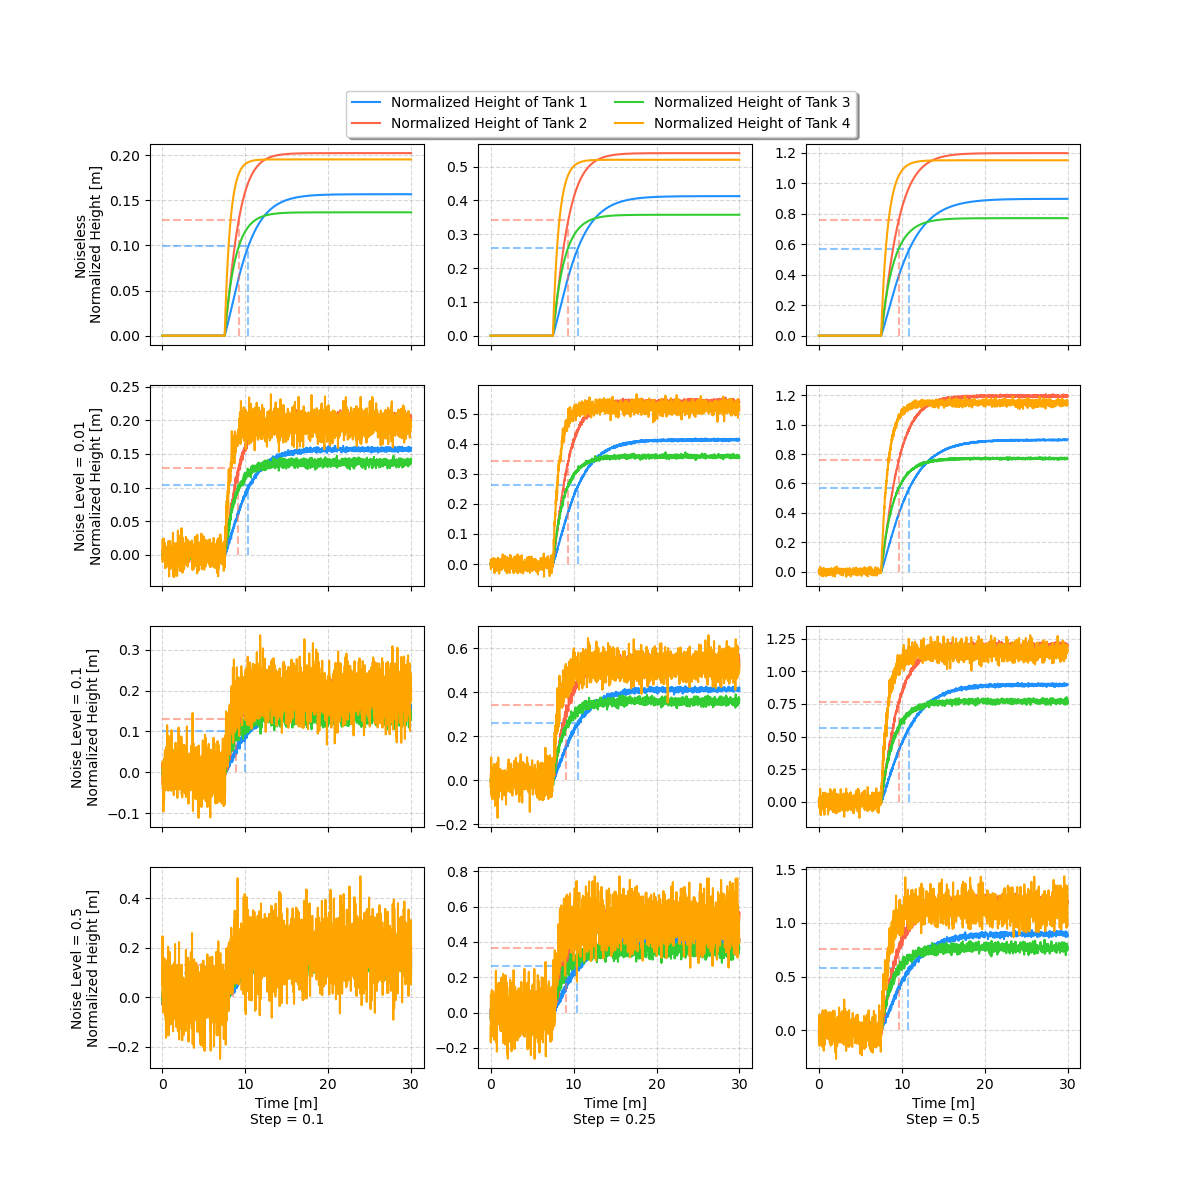
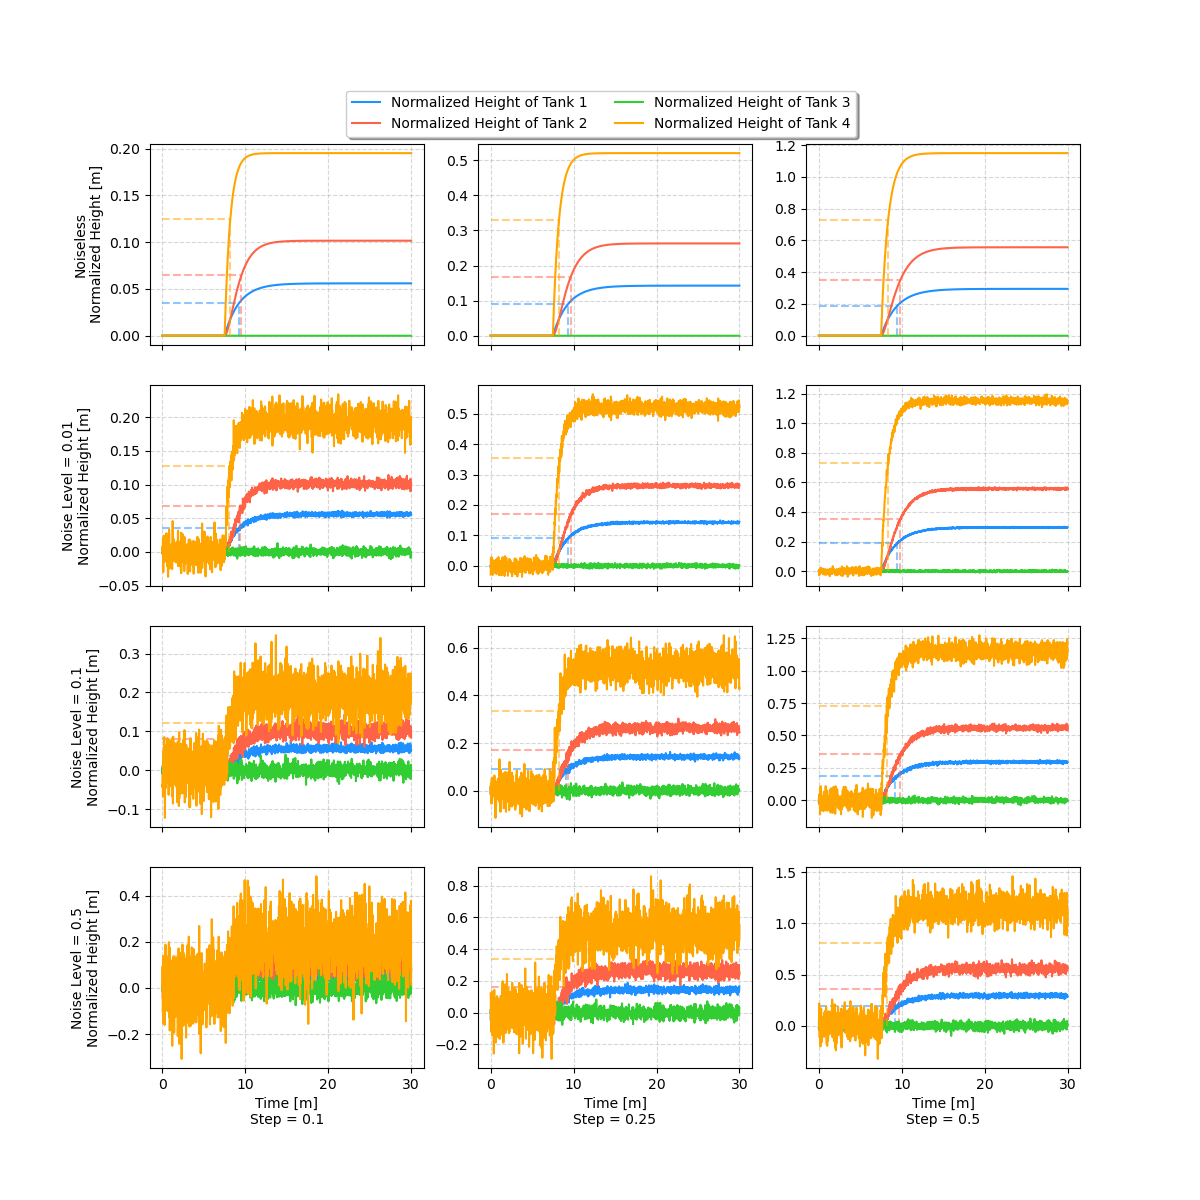
Added 2nd problem 4 solution

diff --git a/Problem_4.py b/Problem_4.py
@@ -28,74 +28,95 @@ noise_leves = [0, 0.01, 0.1, 0.5]
 colors = ['dodgerblue', 'tomato', 'limegreen', 'orange']
 ls = ['-', '-', '-']
 
-df = pd.DataFrame(columns=['noise_level', 'step', 'G_1(step)', 'G_2(step)', 'G_3(step)', 'G_4(step)', 'tau_1', 'tau_2', 'tau_3', 'tau_4'])
+df = pd.DataFrame(columns=['Manipulated input', 'noise_level', 'step', 'K_11', 'K_12', 'K_21', 'K_22', 'tau_1', 'tau_2', 'tau_3', 'tau_4'])
 
 df_i = 0
 
 fig, axes = plt.subplots(4, 3, figsize=(12, 12), sharex=True)
 
-for k, noise_level in enumerate(noise_leves):
-    Rvv = np.eye(4)*noise_level
+for u_idx in range(2):
+    for k, noise_level in enumerate(noise_leves):
+        Rvv = np.eye(4)*noise_level
 
-    Model = FourTankSystem(Rvv, Rvv, p, delta_t, F3 = F3, F4 = F4, sigma_f3 = noise_level, sigma_f4 = noise_level)
+        Model = FourTankSystem(Rvv, Rvv, p, delta_t, F3 = F3, F4 = F4, sigma_f3 = noise_level, sigma_f4 = noise_level)
 
-    xs = Model.GetSteadyState(x0, u, d)
-
-
-    # Computing steady state
-    xs = Model.GetSteadyState(x0, u, d)
-
-    hs = xs/(rho*np.array([A1,A2,A3,A4]))
-
-    u_array = np.zeros((2, Nt))
-    u_array[0, :] = F1
-    u_array[1, :] = F2
+        xs = Model.GetSteadyState(x0, u, d)
 
 
-    steps = [0.1, 0.25, 0.5]
+        # Computing steady state
+        xs = Model.GetSteadyState(x0, u, d)
 
-    ss_max = 0
+        hs = xs/(rho*np.array([A1,A2,A3,A4]))
 
-    for j, step in enumerate(steps):
-        u_array[0, Nt//4:] = F1*(1 + step)
-        u_array[1, Nt//4:] = F2*(1 + step)
+        u_array = np.zeros((2, Nt))
+        u_array[0, :] = F1
+        u_array[1, :] = F2
 
-        state_0 = np.concatenate([xs, d])
 
-        t, x, u_out, d_out, h = Model.OpenLoop((t0, Nt*delta_t), state_0, u_array)
+        steps = [0.1, 0.25, 0.5]
 
-        h_norm = (h - hs[:, None]) / hs[:, None]
-        u_norm = (u_out - u[:, None]) / u[:, None]
-        ss_new = np.mean(h_norm[:, -Nt//10:], axis = 1)
+        ss_max = 0
 
-        tau_idxs = np.where(h_norm / ss_new[:,None] > 0.63)
-        tau_idx = np.array([tau_idxs[1][tau_idxs[0] == i][0] for i in range(4)])
-        tau = t[tau_idx]
+        for j, step in enumerate(steps):
+            if u_idx == 0:
+                u_array[0, Nt//4:] = F1*(1 + step)
+            else:
+                u_array[1, Nt//4:] = F2*(1 + step)
+            
 
-        df.loc[df_i] = [noise_level, step, ss_new[0], ss_new[1], ss_new[2], ss_new[3], tau[0], tau[1], tau[2], tau[3]]
-        df_i += 1
 
-        if np.max(ss_new) > ss_max:
-            ss_max = np.max(ss_new)
+            state_0 = np.concatenate([xs, d])
 
-        print(f"Step Response:\n\tstep: {step}\n\tss: {ss_new}\n\ttaus: {tau}")
+            t, x, u_out, d_out, h = Model.OpenLoop((t0, Nt*delta_t), state_0, u_array)
 
-        for i in range(4):
-            axes[k, j].grid(True, linestyle='--', alpha=0.5)
-            axes[k, j].plot(t/60, h_norm[i, :], label=f'Normalized Height of Tank {i+1}', color=colors[i], ls=ls[0])
-            if i < 2:
-                # axes[j, -1].plot(t/60, u_norm[i, :], label=f'Normalized Flow of Tank {i+1}', color=colors[i], ls=ls[0])
-                axes[k, j].vlines(tau[i]/60, 0, h_norm[i, tau_idx[i]], color=colors[i], ls='--', alpha=0.5)
-                axes[k, j].hlines(h_norm[i, tau_idx[i]], 0, tau[i]/60, color=colors[i], ls='--', alpha=0.5)
+            y = Model.StateOutput(h)
 
-                # axes[j, -1].vlines(tau[i]/60, 0, u_norm[0, tau_idx[i]], color=colors[i], ls='--', alpha=0.5)
-                # axes[j, -1].hlines(u_norm[0, tau_idx[i]], 0, tau[i]/60, color=colors[i], ls='--', alpha=0.5)
+            t_mod = t[Nt//4]
+            h_norm = (h - hs[:, None]) / hs[:, None]
+            u_norm = (u_out - u[:, None]) / u[:, None]
+            ss_new = np.mean(h_norm[:, -Nt//10:], axis = 1)
 
-    axes[0, 2].legend(loc='upper center', bbox_to_anchor=(-0.75, 1.30),
-        ncol=2, fancybox=True, shadow=True)
+            tau_idxs = np.where(h_norm / ss_new[:,None] > 0.63)
+            tau_idx = np.array([tau_idxs[1][tau_idxs[0] == i][0] for i in range(4)])
+            tau = t[tau_idx] - t_mod
+            tau[tau < 0] = 0
 
-    print(f'Noise level: {noise_level}\nPlot saved to Problem_4_noise_{noise_level}.png')
-    print("-"*10)
+            if u_idx == 0:
+                k11 = y[0, 0] / (step*F1)
+                k12 = y[1, 0] / (step*F1)
+                k21 = 0
+                k22 = 0
+            else:
+                k11 = 0
+                k12 = 0
+                k21 = y[0, 1] / (step*F2)
+                k22 = y[1, 1] / (step*F2)
+
+            df.loc[df_i] = [u_idx, noise_level, step, k11, k12, k21, k22, tau[0], tau[1], tau[2], tau[3]]
+            df_i += 1
+
+            if np.max(ss_new) > ss_max:
+                ss_max = np.max(ss_new)
+
+            print(f"Step Response:\n\tstep: {step}\n\tss: {ss_new}\n\ttaus: {tau}")
+
+            if u_idx == 0:
+                for i in range(4):
+                    axes[k, j].grid(True, linestyle='--', alpha=0.5)
+                    axes[k, j].plot(t/60, h_norm[i, :], label=f'Normalized Height of Tank {i+1}', color=colors[i], ls=ls[0])
+                    # if i < 2:
+                    # axes[j, -1].plot(t/60, u_norm[i, :], label=f'Normalized Flow of Tank {i+1}', color=colors[i], ls=ls[0])
+                    axes[k, j].vlines((t_mod + tau[i])/60, 0, h_norm[i, tau_idx[i]], color=colors[i], ls='--', alpha=0.5)
+                    axes[k, j].hlines(h_norm[i, tau_idx[i]], 0, (t_mod + tau[i])/60, color=colors[i], ls='--', alpha=0.5)
+
+                    # axes[j, -1].vlines(tau[i]/60, 0, u_norm[0, tau_idx[i]], color=colors[i], ls='--', alpha=0.5)
+                    # axes[j, -1].hlines(u_norm[0, tau_idx[i]], 0, (t_mod + tau[i])/60, color=colors[i], ls='--', alpha=0.5)
+
+        axes[0, 2].legend(loc='upper center', bbox_to_anchor=(-0.75, 1.30),
+            ncol=2, fancybox=True, shadow=True)
+
+        print(f'Noise level: {noise_level}\nPlot saved to Problem_4_noise_{noise_level}.png')
+        print("-"*10)
 
 # plt.tight_layout()
 axes[3, 0].set_xlabel('Time [m]\nStep = 0.1')

diff --git a/Problem_4_2nd.py b/Problem_4_2nd.py
@@ -1,0 +1,29 @@
+import numpy as np
+
+k = np.array([
+    [0.4486620098814102,  0.20476430802289014],
+    [0.3458375648947594, 0.1603773057669117]
+])
+
+tau = np.array(
+    [103.0, 82.0, 90.0, 42.0]
+)
+
+F1 = 250
+F2 = 325
+
+
+def G(s): 
+    G = np.array([
+        [
+            k[0, 0]/(tau[0]*s + 1),
+            k[0, 1]/((tau[1]*s + 1)*(tau[3]*s + 1))
+        ],
+        [
+            k[1, 0]/((tau[0]*s + 1)*(tau[2]*s + 1)),
+            k[1, 1]/(tau[1]*s + 1)
+        ]
+    ])
+    return G
+
+print(G(0.5)@[F1, F2])
